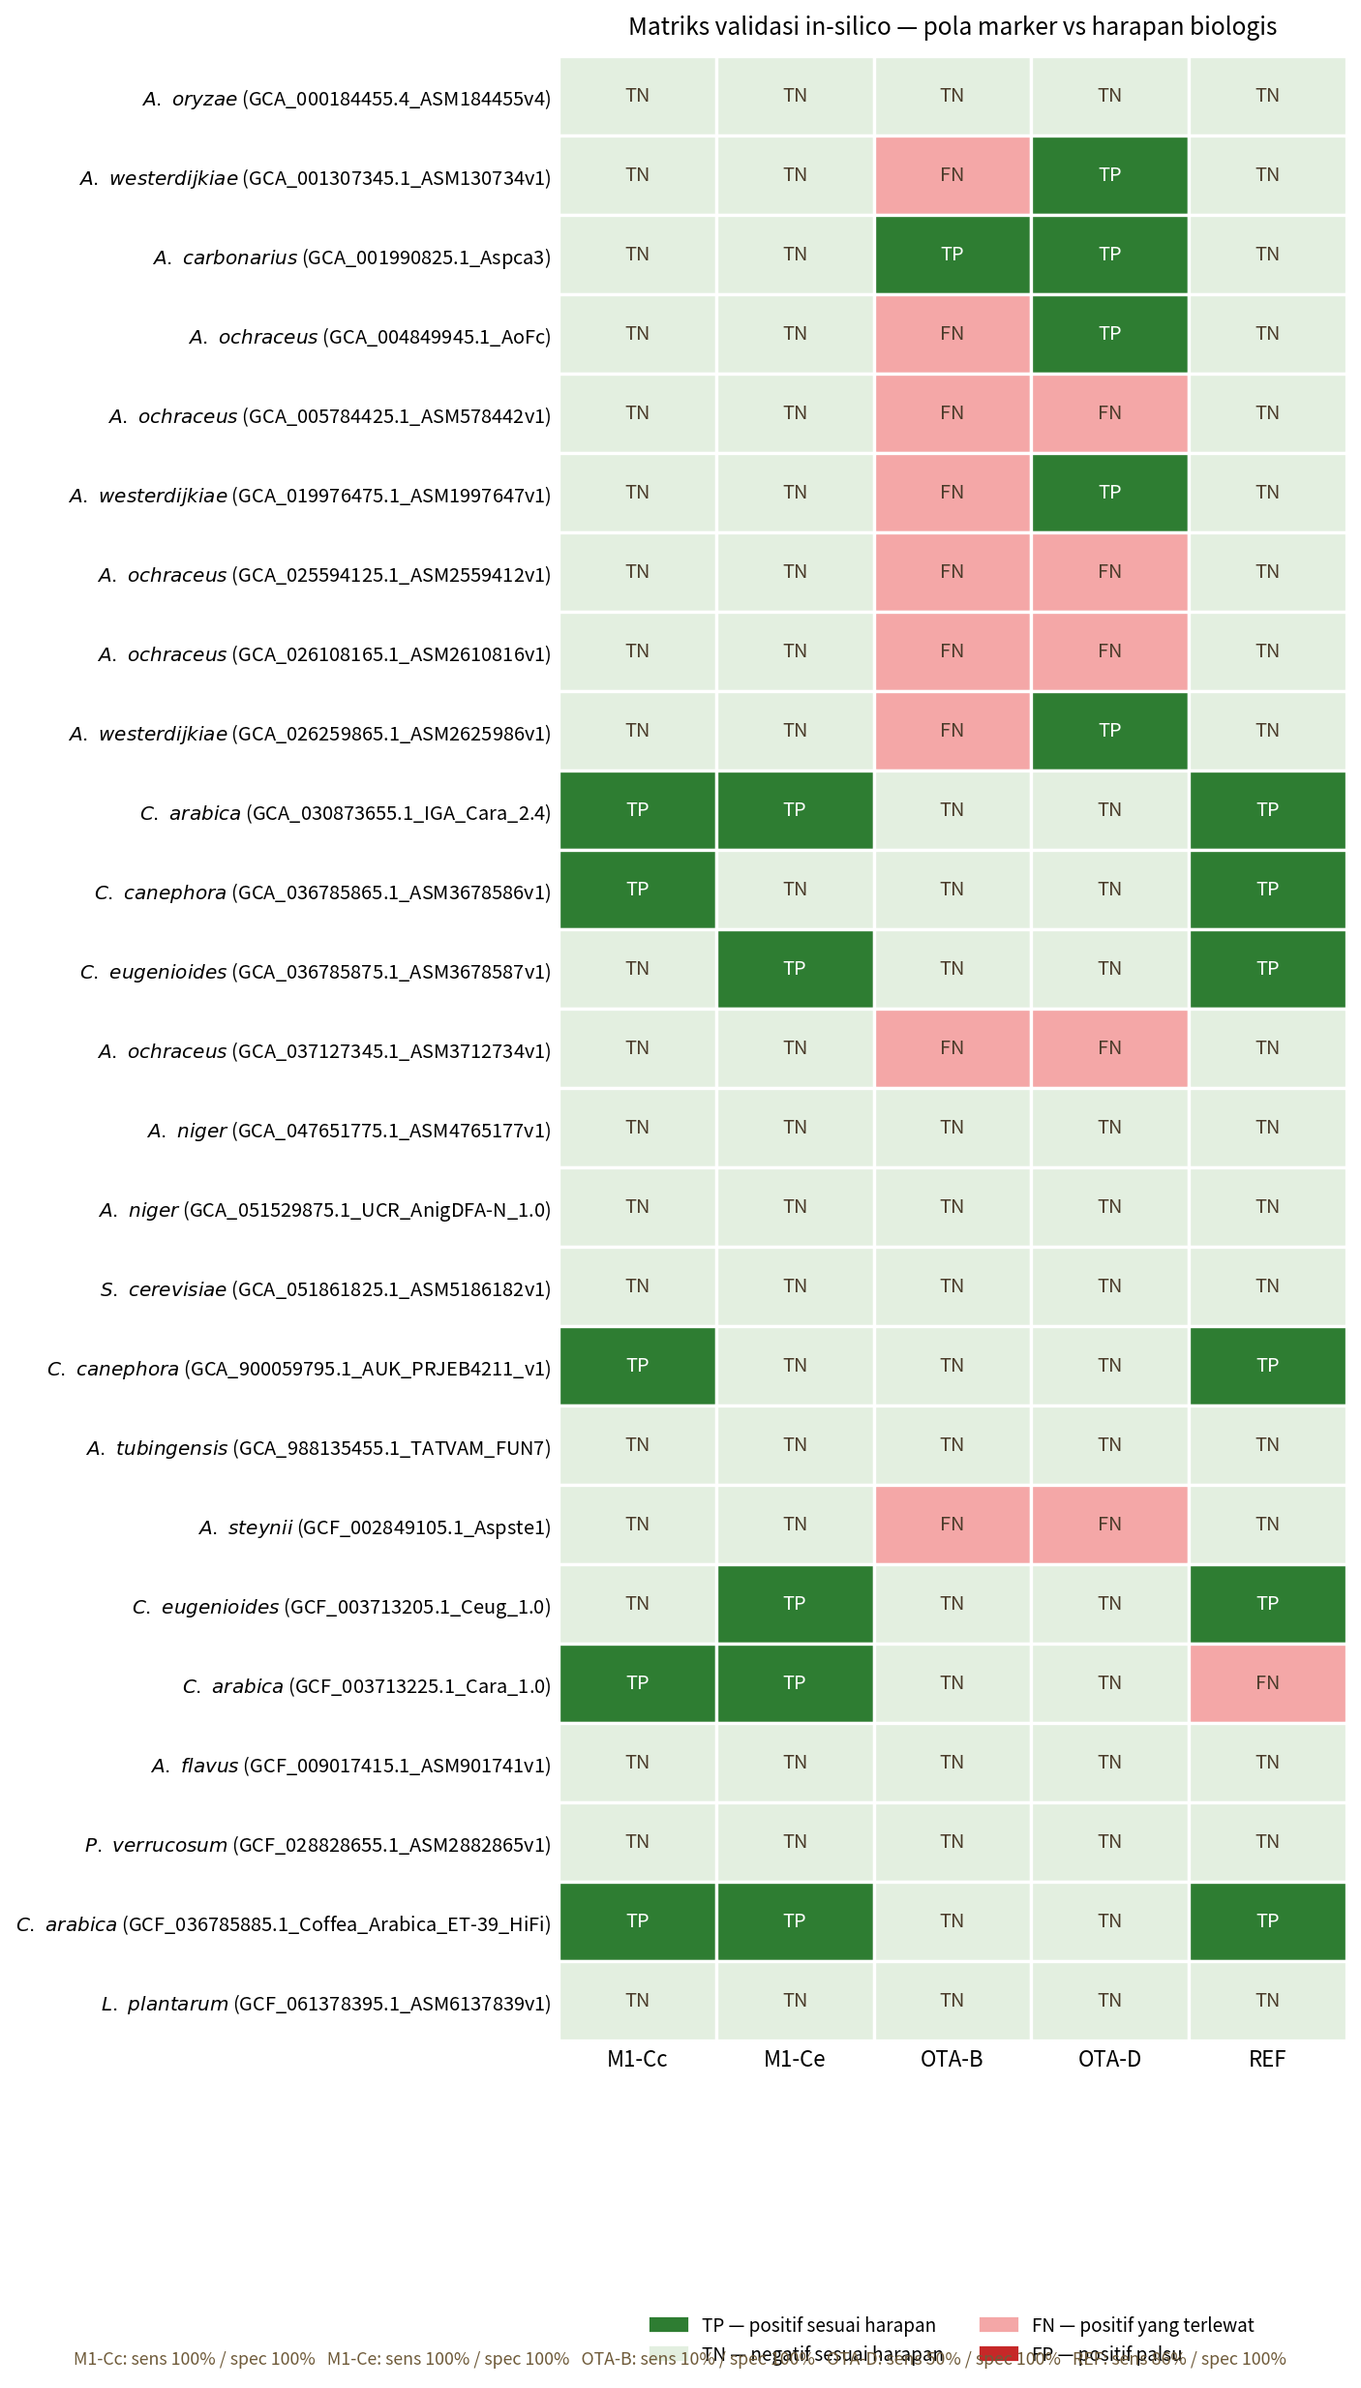
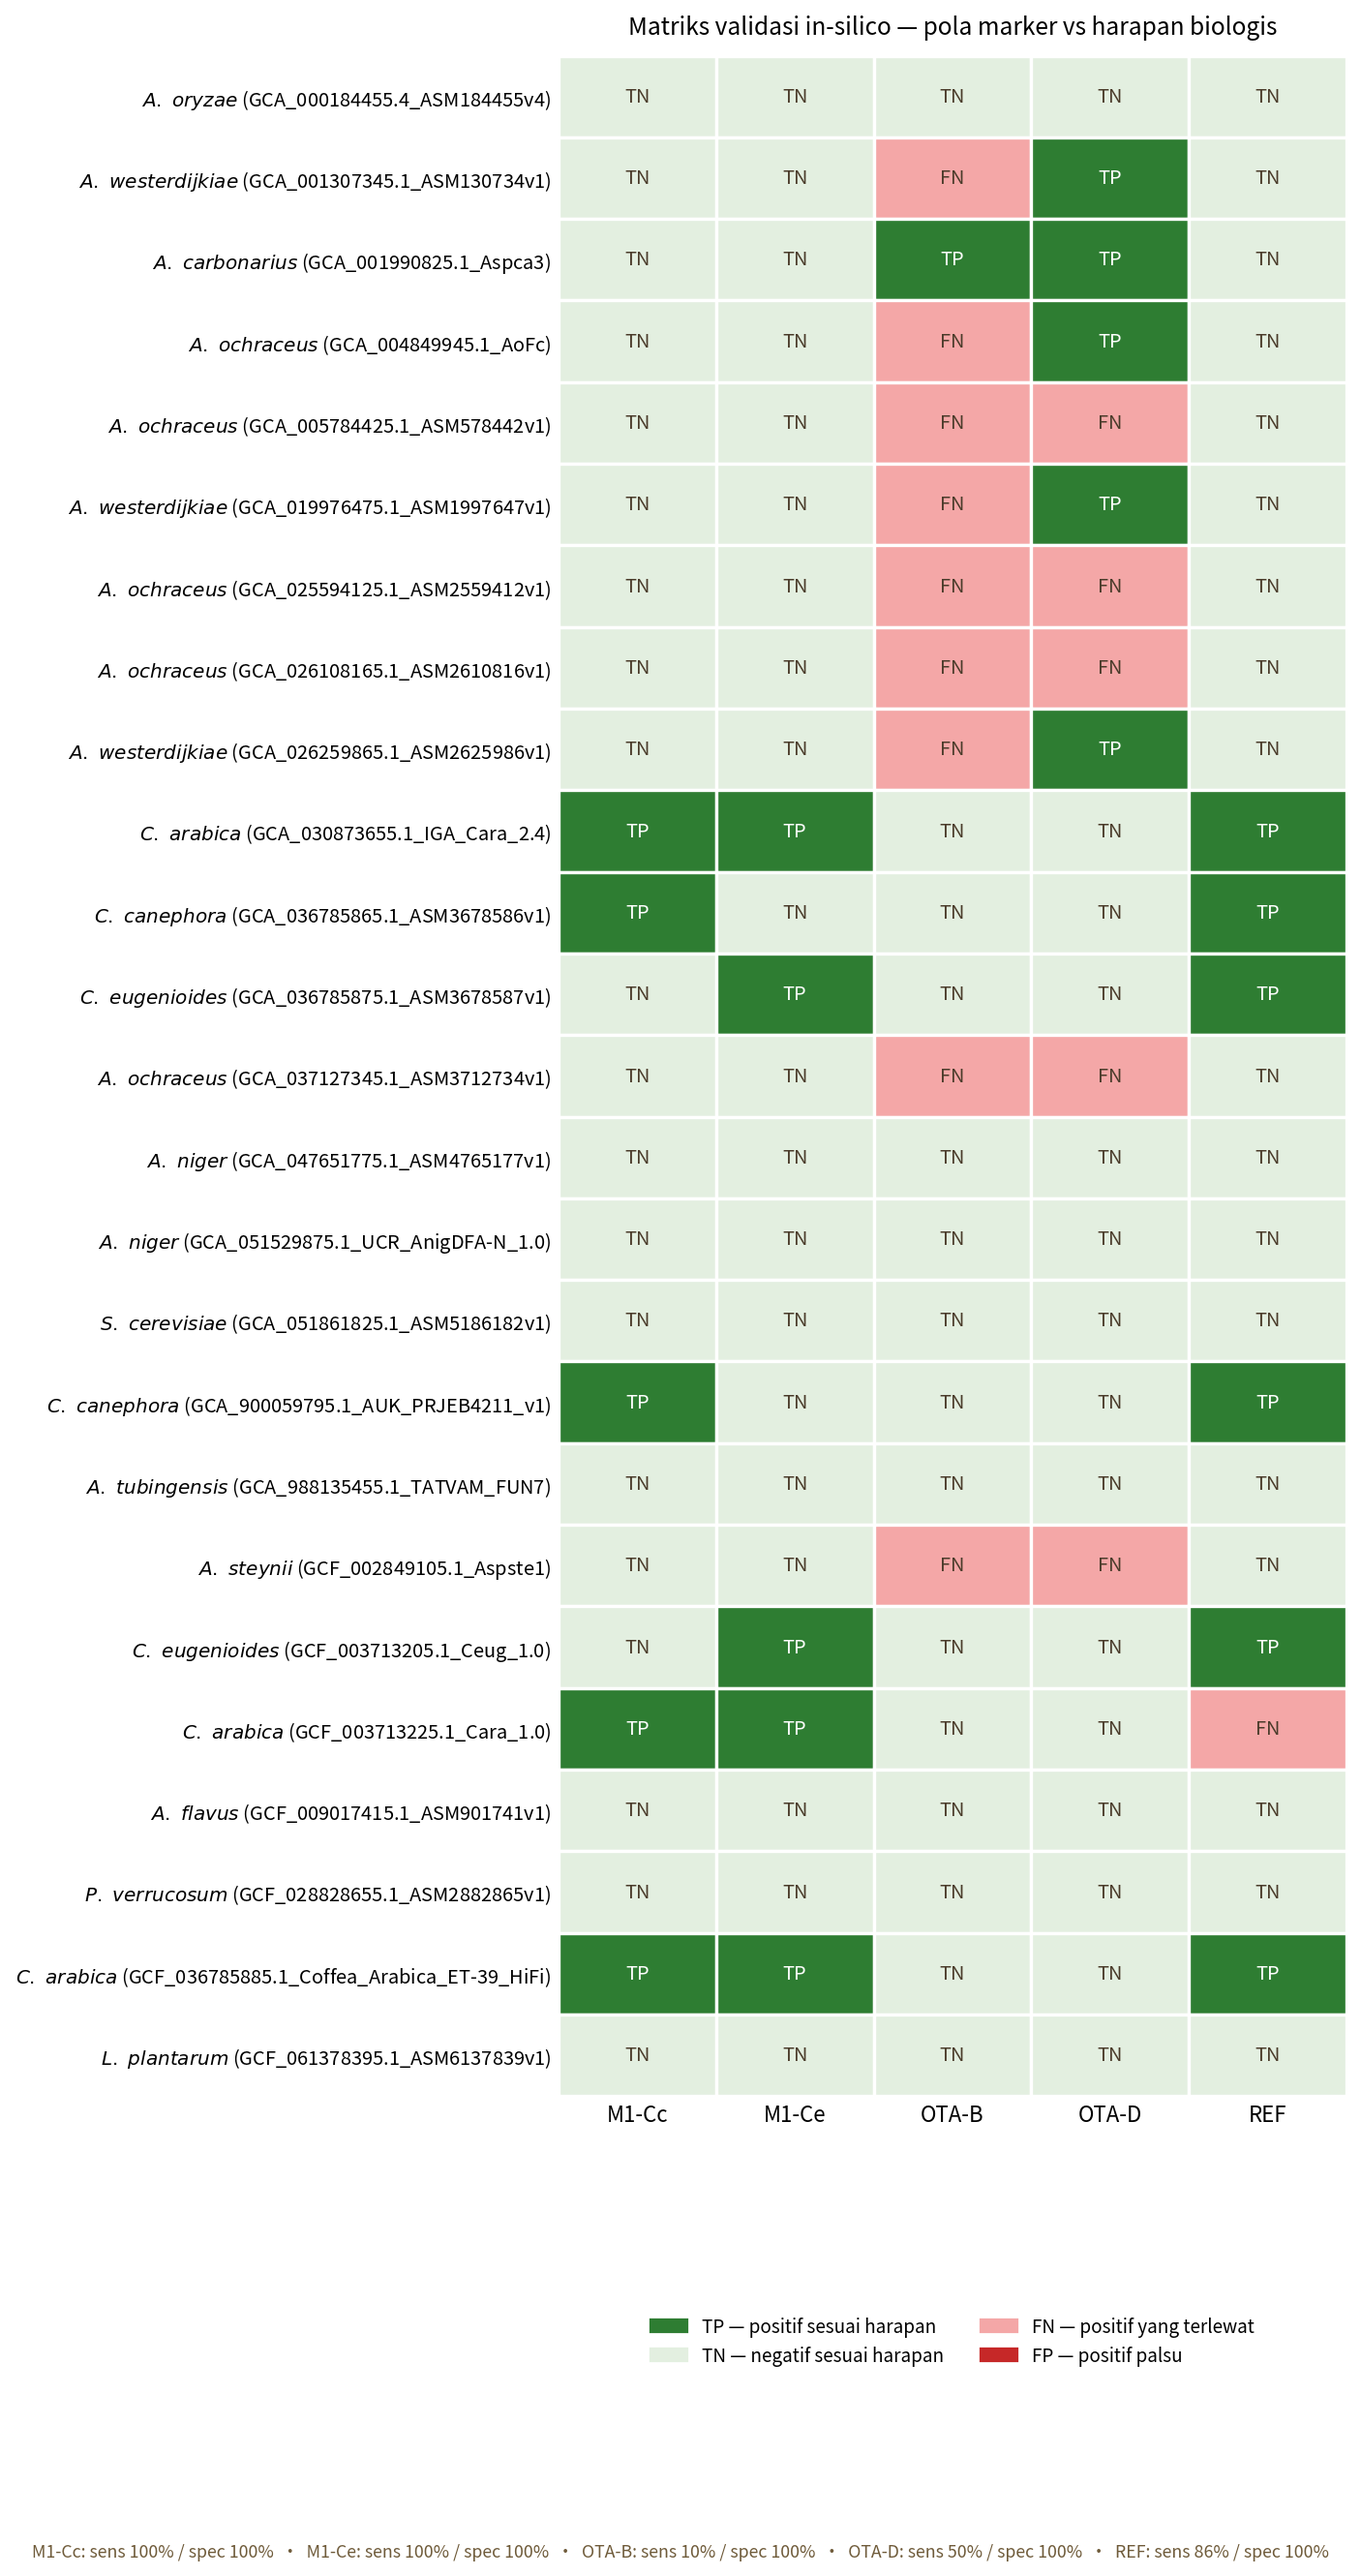
fix: legenda matriks terpisah dari sens/spec; font laporan QA -> Arial

diff --git a/dashboard/app.py b/dashboard/app.py
@@ -359,7 +359,7 @@ def svg_ratio_scale(ratio):
     W, H, pad = 680, 92, 30
     top = max(2.5, (ratio if ratio == ratio else 0) * 1.15)
     X = lambda v: pad + (W - 2 * pad) * v / top
-    g = [f'<svg viewBox="0 0 {W} {H}" width="100%" xmlns="http://www.w3.org/2000/svg" font-family="Inter,Arial,sans-serif">',
+    g = [f'<svg viewBox="0 0 {W} {H}" width="100%" xmlns="http://www.w3.org/2000/svg" font-family="Arial,Helvetica,sans-serif">',
          f'<rect x="{pad}" y="34" width="{X(THRESH)-pad:.1f}" height="16" rx="3" fill="#DCEBE2"/>',
          f'<rect x="{X(THRESH):.1f}" y="34" width="{W-pad-X(THRESH):.1f}" height="16" rx="3" fill="#F2D6D2"/>',
          f'<line x1="{X(THRESH):.1f}" y1="26" x2="{X(THRESH):.1f}" y2="58" stroke="{C["flag"]}" stroke-width="2"/>',
@@ -392,7 +392,7 @@ def svg_sim_curve(ratio):
     ymax = max(max(ys), THRESH, ratio if ratio == ratio else 0) * 1.12
     X = lambda v: L + (W - L - R) * v / xmax
     Y = lambda v: T + (H - T - B) * (1 - v / ymax)
-    g = [f'<svg viewBox="0 0 {W} {H}" width="100%" xmlns="http://www.w3.org/2000/svg" font-family="Inter,Arial,sans-serif">']
+    g = [f'<svg viewBox="0 0 {W} {H}" width="100%" xmlns="http://www.w3.org/2000/svg" font-family="Arial,Helvetica,sans-serif">']
     for k in range(6):
         yv = ymax * k / 5
         g.append(f'<line x1="{L}" y1="{Y(yv):.1f}" x2="{W-R}" y2="{Y(yv):.1f}" stroke="#EEE9E0"/>'
@@ -446,27 +446,27 @@ def build_report(r):
     return f"""<!doctype html>
 <html lang="id"><head><meta charset="utf-8"><meta name="viewport" content="width=device-width, initial-scale=1">
 <title>Laporan QA {esc(r['report_id'])} — KopiFied</title>
-<link href="https://fonts.googleapis.com/css2?family=Inter:wght@400;500;600;700;800&family=Source+Serif+4:opsz,wght@8..60,600;8..60,700&family=JetBrains+Mono:wght@500;700&display=swap" rel="stylesheet">
+
 <style>
   @page {{ size: A4; margin: 14mm 13mm 16mm; }}
   * {{ box-sizing: border-box; -webkit-print-color-adjust: exact; print-color-adjust: exact; }}
-  body {{ margin:0; background:#EDE9E2; font-family:Inter, Arial, sans-serif; color:{C['ink']}; font-size:12.5px; line-height:1.5; }}
+  body {{ margin:0; background:#EDE9E2; font-family:Arial, Helvetica, sans-serif; color:{C['ink']}; font-size:12.5px; line-height:1.5; }}
   .page {{ max-width: 860px; margin: 28px auto; background:#fff; box-shadow:0 8px 30px rgba(0,0,0,.08); }}
-  .mono {{ font-family:'JetBrains Mono', Consolas, monospace; }}
+  .mono {{ font-family:Consolas, 'Courier New', monospace; }}
   header {{ background:linear-gradient(135deg,#1E140F,#2B1D16 55%,#4A2F22); color:#F8F3EA; padding:26px 34px; display:flex; justify-content:space-between; gap:20px; }}
-  .brand {{ font-family:'Source Serif 4', Georgia, serif; font-size:26px; font-weight:700; color:#fff; }}
-  .brand small {{ display:block; font-family:Inter, Arial; font-size:10.5px; letter-spacing:2px; text-transform:uppercase; color:{C['gold']}; font-weight:700; margin-top:2px; }}
-  h1.doc {{ font-family:'Source Serif 4', Georgia, serif; font-size:19px; margin:12px 0 0; color:#fff; font-weight:600; }}
+  .brand {{ font-family:Arial, Helvetica, sans-serif; font-size:26px; font-weight:700; color:#fff; }}
+  .brand small {{ display:block; font-family:Arial, Helvetica, sans-serif; font-size:10.5px; letter-spacing:2px; text-transform:uppercase; color:{C['gold']}; font-weight:700; margin-top:2px; }}
+  h1.doc {{ font-family:Arial, Helvetica, sans-serif; font-size:19px; margin:12px 0 0; color:#fff; font-weight:600; }}
   .hmeta {{ text-align:right; font-size:11px; color:#DCCFBB; line-height:1.8; }}
-  .hmeta b {{ color:#fff; font-family:'JetBrains Mono', monospace; }}
+  .hmeta b {{ color:#fff; font-family:Consolas, 'Courier New', monospace; }}
   main {{ padding: 26px 34px 10px; }}
   .verdict {{ display:flex; justify-content:space-between; align-items:center; border-radius:12px; padding:18px 22px; color:#fff; background:{col[ov['code']]}; }}
   .verdict .k {{ font-size:10px; letter-spacing:2px; text-transform:uppercase; opacity:.85; font-weight:700; }}
-  .verdict .v {{ font-family:'Source Serif 4', Georgia, serif; font-size:26px; font-weight:700; }}
+  .verdict .v {{ font-family:Arial, Helvetica, sans-serif; font-size:26px; font-weight:700; }}
   .verdict .d {{ font-size:12px; opacity:.95; max-width:520px; }}
   .stamp {{ border:2px solid rgba(255,255,255,.8); border-radius:8px; padding:6px 12px; font-weight:800; letter-spacing:2px; font-size:13px; transform:rotate(-4deg); white-space:nowrap; }}
-  h2 {{ font-family:'Source Serif 4', Georgia, serif; font-size:16.5px; margin:26px 0 10px; padding-bottom:6px; border-bottom:1.5px solid {C['line']}; display:flex; gap:10px; align-items:baseline; }}
-  h2 .n {{ font-family:'JetBrains Mono', monospace; font-size:11px; color:{C['copper']}; border:1px solid {C['copper']}; border-radius:5px; padding:1px 6px; }}
+  h2 {{ font-family:Arial, Helvetica, sans-serif; font-size:16.5px; margin:26px 0 10px; padding-bottom:6px; border-bottom:1.5px solid {C['line']}; display:flex; gap:10px; align-items:baseline; }}
+  h2 .n {{ font-family:Consolas, 'Courier New', monospace; font-size:11px; color:{C['copper']}; border:1px solid {C['copper']}; border-radius:5px; padding:1px 6px; }}
   table {{ width:100%; border-collapse:collapse; }}
   .kv td {{ padding:6px 10px; border-bottom:1px solid #F1EDE6; vertical-align:top; }}
   .kv td:first-child {{ width:34%; color:{C['muted']}; font-weight:600; font-size:11.5px; }}
@@ -484,7 +484,7 @@ def build_report(r):
   .kpis {{ display:grid; grid-template-columns:repeat(5,1fr); gap:10px; margin:6px 0 12px; }}
   .kpi {{ border:1px solid {C['line']}; border-radius:10px; padding:10px 12px; }}
   .kpi .l {{ font-size:9.5px; letter-spacing:1px; text-transform:uppercase; color:{C['muted']}; font-weight:800; }}
-  .kpi .v {{ font-family:'JetBrains Mono', monospace; font-size:20px; font-weight:700; }}
+  .kpi .v {{ font-family:Consolas, 'Courier New', monospace; font-size:20px; font-weight:700; }}
   .kpi .s {{ font-size:10.5px; color:{C['ink2']}; }}
   .fig {{ border:1px solid {C['line']}; border-radius:10px; padding:12px 14px; margin-top:10px; }}
   .cap {{ font-size:10.5px; color:{C['muted']}; margin-top:6px; }}
@@ -499,7 +499,7 @@ def build_report(r):
   .sign div {{ border-top:1px solid {C['ink2']}; padding-top:6px; font-size:10.5px; color:{C['muted']}; margin-top:44px; }}
   footer {{ padding:14px 34px 22px; font-size:10px; color:{C['muted']}; display:flex; justify-content:space-between; border-top:1px solid {C['line']}; margin-top:18px; }}
   .toolbar {{ max-width:860px; margin:16px auto -12px; text-align:right; }}
-  .toolbar button {{ background:#2B1D16; color:#fff; border:none; border-radius:8px; padding:8px 16px; font-weight:700; cursor:pointer; font-family:Inter, Arial; }}
+  .toolbar button {{ background:#2B1D16; color:#fff; border:none; border-radius:8px; padding:8px 16px; font-weight:700; cursor:pointer; font-family:Arial, Helvetica, sans-serif; }}
   section {{ break-inside: avoid; }}
   @media print {{ body {{ background:#fff; }} .page {{ margin:0; box-shadow:none; max-width:none; }} .toolbar {{ display:none; }} }}
 </style></head>
